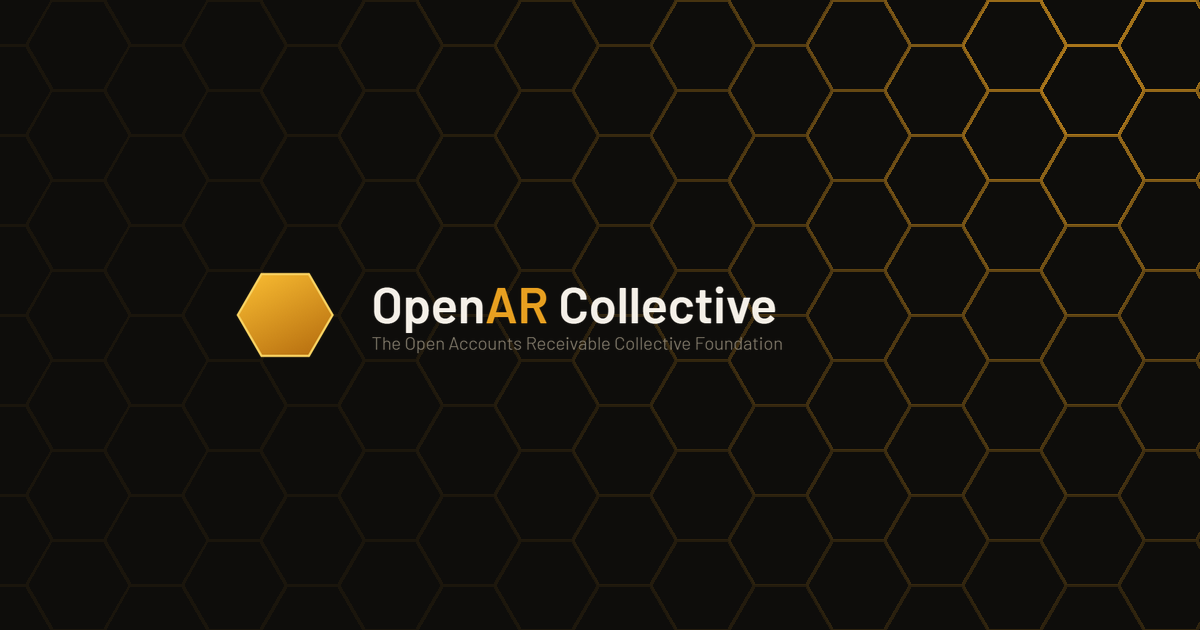
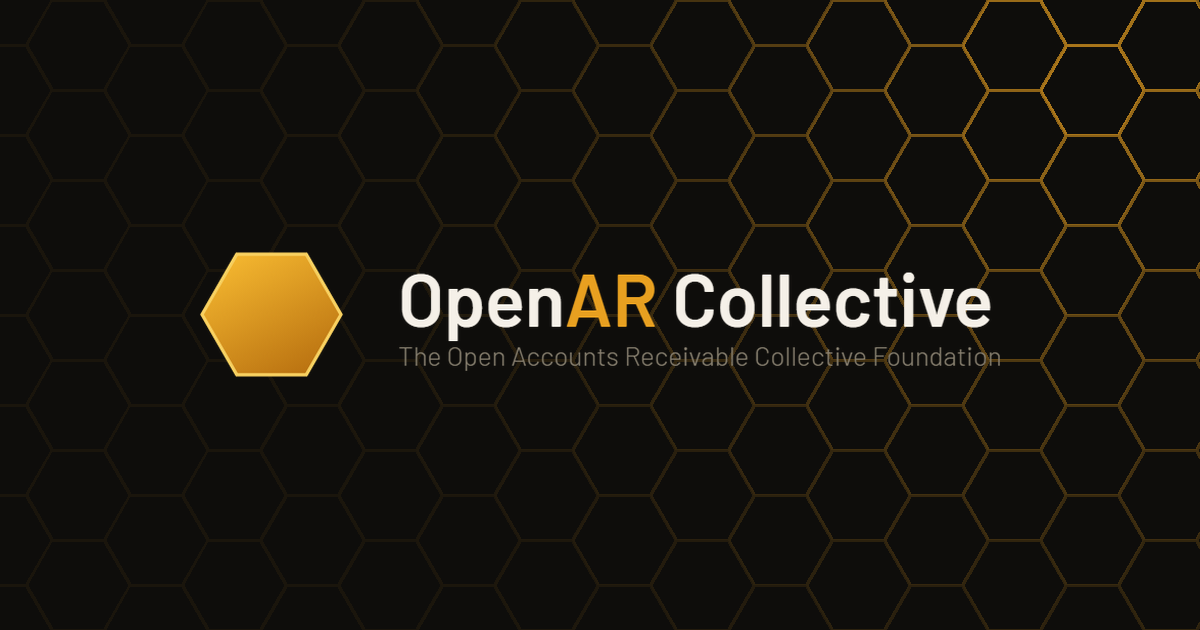
Enlarge the news image wordmark and tighten the footer
The wordmark source carries 30 percent transparent padding, so pasting
it at a nominal width rendered the visible mark much smaller than
intended; it is now cropped to content before scaling. Adds
scripts/news-image.py so future releases reuse the same treatment.

Footer rows inherited the body's 1.75 line height, padding every link;
the list now sets its own metrics. Footer height drops from 297 to 256
pixels while keeping link pitch above the 24 pixel target-spacing
threshold.

Changed region(s): [[0.1542, 0.3921, 0.8325, 0.6032]]

diff --git a/scripts/news-image.py b/scripts/news-image.py
@@ -1,0 +1,83 @@
+"""Generate the branded 1200x630 card image for a news article.
+
+Usage:
+    python scripts/news-image.py <output-slug>
+
+Writes public/assets/news/<output-slug>.png. The image is the amber hex grid
+brightening toward the upper right, matching the business plan cover, with the
+horizontal wordmark centered.
+
+Requires Pillow and the wordmark source in _Scratch. This is an authoring tool
+run by hand; it is not part of the site build and ships nothing to the browser.
+The images it produces are brand assets, governed by the Trademark Policy
+rather than the repository's open licenses.
+"""
+
+import math
+import sys
+from pathlib import Path
+
+from PIL import Image, ImageDraw
+
+W, H = 1200, 630
+NEAR_BLACK = (14, 13, 11)
+AMBER = (232, 160, 32)
+R = 52  # hex circumradius
+WORDMARK_WIDTH = 800  # visible wordmark content width, after cropping padding
+
+ROOT = Path(__file__).resolve().parent.parent
+WORDMARK = ROOT / "_Scratch/OpenAR Single Hex/PNG/openar-single-hex-horizontal-dark-1120x216-transparency.png"
+
+
+def hex_points(cx, cy):
+    return [
+        (cx + R * math.cos(math.radians(60 * k)), cy + R * math.sin(math.radians(60 * k)))
+        for k in range(6)
+    ]
+
+
+def build():
+    img = Image.new("RGB", (W, H), NEAR_BLACK)
+    overlay = Image.new("RGBA", (W, H), (0, 0, 0, 0))
+    draw = ImageDraw.Draw(overlay)
+
+    # Brightness falls off from the upper-right corner.
+    focus = (W * 0.92, H * 0.08)
+    reach = math.hypot(W, H) * 0.72
+    step_y = math.sqrt(3) / 2 * R
+
+    x = 0.0
+    while x < W + 2 * R:
+        offset = step_y if round(x / (1.5 * R)) % 2 else 0
+        y = offset - 2 * step_y
+        while y < H + 2 * step_y:
+            t = max(0.0, 1 - math.hypot(x - focus[0], y - focus[1]) / reach)
+            alpha = int(14 + (200 - 14) * (t**2.4))
+            draw.polygon(hex_points(x, y), outline=(*AMBER, alpha), width=2)
+            y += 2 * step_y
+        x += 1.5 * R
+
+    img = Image.alpha_composite(img.convert("RGBA"), overlay).convert("RGB")
+
+    # The wordmark PNG carries transparent padding; crop to content so the
+    # requested width describes the visible mark.
+    mark = Image.open(WORDMARK).convert("RGBA")
+    mark = mark.crop(mark.getbbox())
+    height = round(mark.height * WORDMARK_WIDTH / mark.width)
+    mark = mark.resize((WORDMARK_WIDTH, height), Image.LANCZOS)
+    img.paste(mark, ((W - WORDMARK_WIDTH) // 2, (H - height) // 2), mark)
+
+    return img
+
+
+def main():
+    if len(sys.argv) != 2:
+        sys.exit("usage: python scripts/news-image.py <output-slug>")
+    out = ROOT / "public/assets/news" / f"{sys.argv[1]}.png"
+    out.parent.mkdir(parents=True, exist_ok=True)
+    build().save(out, optimize=True)
+    print(f"wrote {out.relative_to(ROOT)} ({out.stat().st_size} bytes)")
+
+
+if __name__ == "__main__":
+    main()
